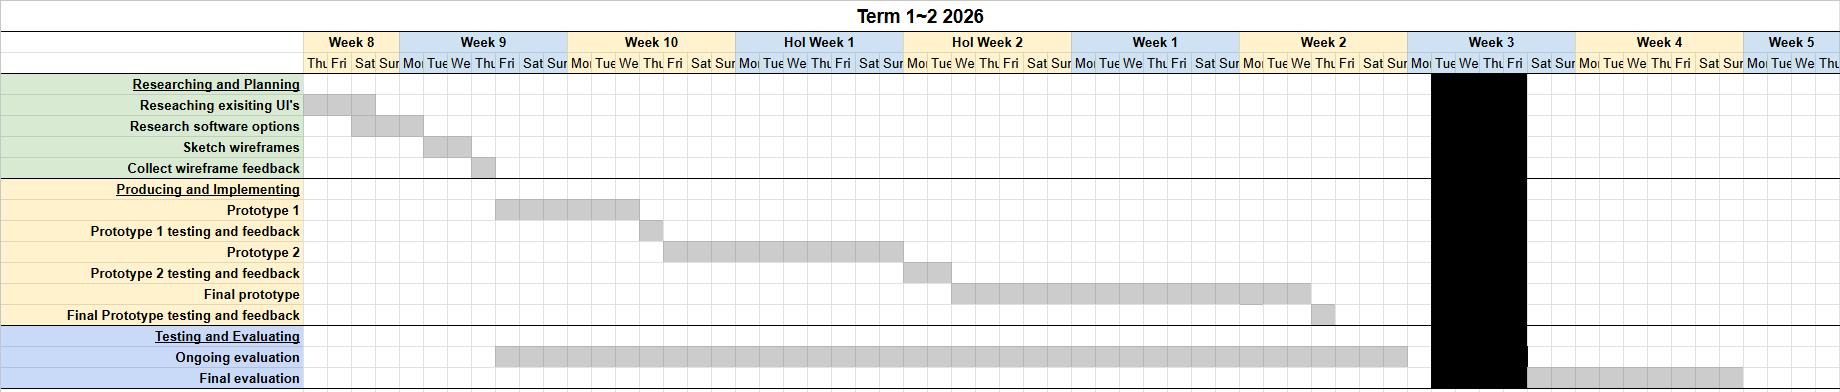
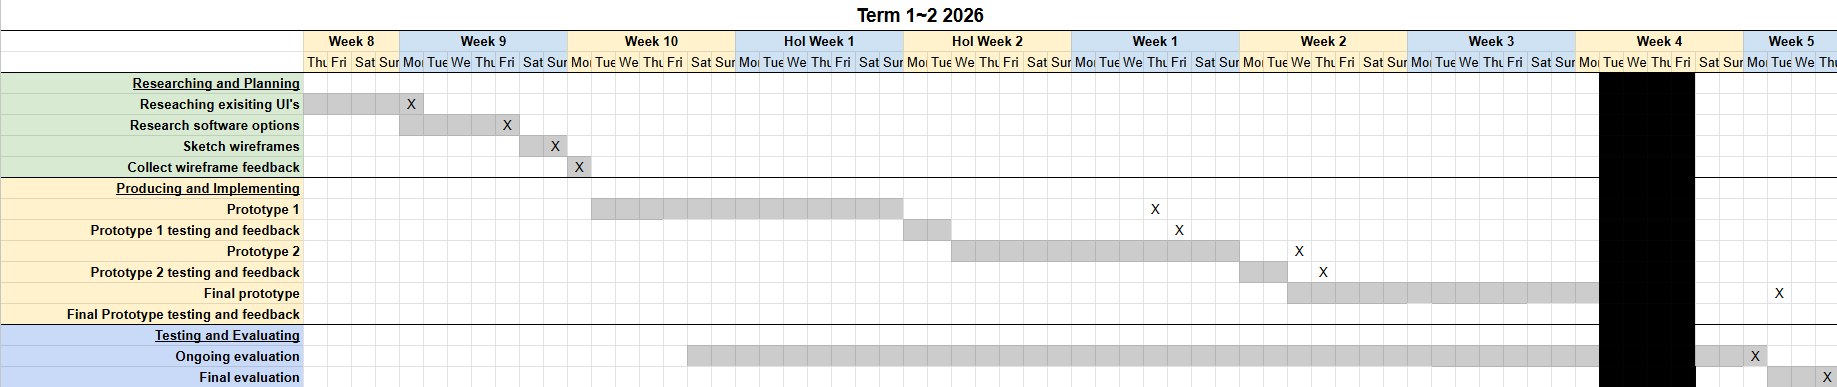
Put in
I put in my first answer for the final evaluation.

diff --git a/README.md b/README.md
@@ -55,7 +55,7 @@ The project is designed to both engage fans of dystopian fiction and promote the
 **Use cases**  
 Four key user interactions include:
 - **Accessing the settings**   
-sUers will select a settings to explore the different settings within the world of *The Giver*
+Users will select a settings to explore the different settings within the world of *The Giver*
 
     User Journey:
     - The user opens the website 
@@ -383,6 +383,12 @@ Outline your priorities for next week—what specific areas need further develop
 
 ## Final Evaluation
 ### Evaluate how effectively your product meets the functional and non-functional requirements, including its stated purpose, use case flows, expected behaviours, usability, performance, reliability, and any relevant security considerations.
+My project meets the functional requirements very effectively because every major interaction described in my requirements specification is represented clearly in my Adobe XD prototype. The purpose of my website is to allow users to explore the settings, themes, characters, households and author information from The Giver in a visual and interactive way. My prototype successfully supports this by giving users multiple pathways to access information, such as the hamburger menu, the homepage buttons and the clickable character icons. As stated in my requirements, users are able to explore the book through interactive features and visual elements which I achieved through layered information and consistent navigation. 
+
+The use case flows I wrote are also reflected accurately in the prototype. For example, the ‘Settings’, ‘Households’, ‘Characters’, ‘Themes’ and ‘About the Author’ pages all follow the expected behaviours I outlined. My feedback from my peers also confirmed that the navigation was intuitive, showing that the prototype communicates its purpose clearly. The expected behaviours such as the smooth transitions, correct page loading and responsive buttons were all met while there were some issues like how the images were really pixelated and when the word ‘menu’ suddenly became draggable during testing. While these issues didn’t break the functionality of the overall website, they highlighted my areas for refinement and improvement. 
+
+In terms of non-functional requirements, my project performed well in usability, performance, reliability and security. According to the feedback, my prototype was described to be ‘easy to understand’ and ‘intuitive’ which shows that the usability goals were met. Additionally, the minimalist layout, clear headlines and the consistent top bar all support accessibility and reduce overwhelming users. Performance was strong because Adobe XD prototype load quickly and respond instantly, matching my requirements that navigations will occur within a second. Reliability was supported through consistent interactions across pages concluding similar layouts of each page. Security requirements were fully met because the prototype collects no data and stores nothing about the user, which aligns with my statement that no personal data is collected, stored or shared at any stage.’
+
 
 ### Evaluate how well your final product meets the intentions outlined in your design brief, including suitability for the target audience and purpose.
 
@@ -390,4 +396,4 @@ Outline your priorities for next week—what specific areas need further develop
 
 ### Evaluate how effectively you managed your time, resources, and processes throughout the project, including how well you met milestones, adapted to challenges, and maintained consistent progress.
 
-## Evaluate how effectively you gathered and responded to user feedback and testing with consideration to how it influenced your design decisions and what aspects of the product still require improvement.
+### Evaluate how effectively you gathered and responded to user feedback and testing with consideration to how it influenced your design decisions and what aspects of the product still require improvement.
